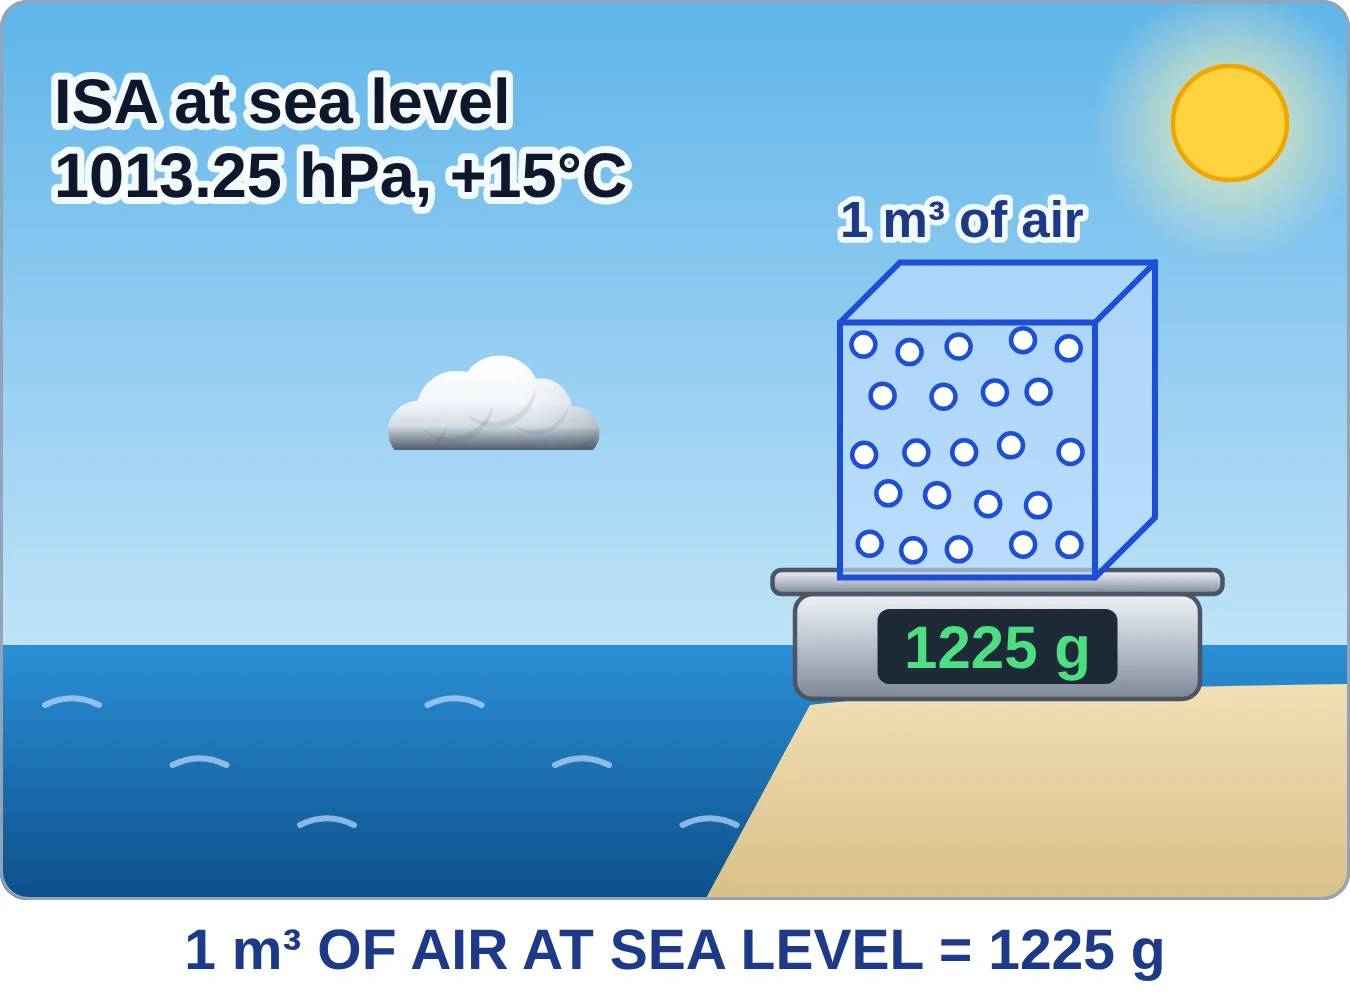
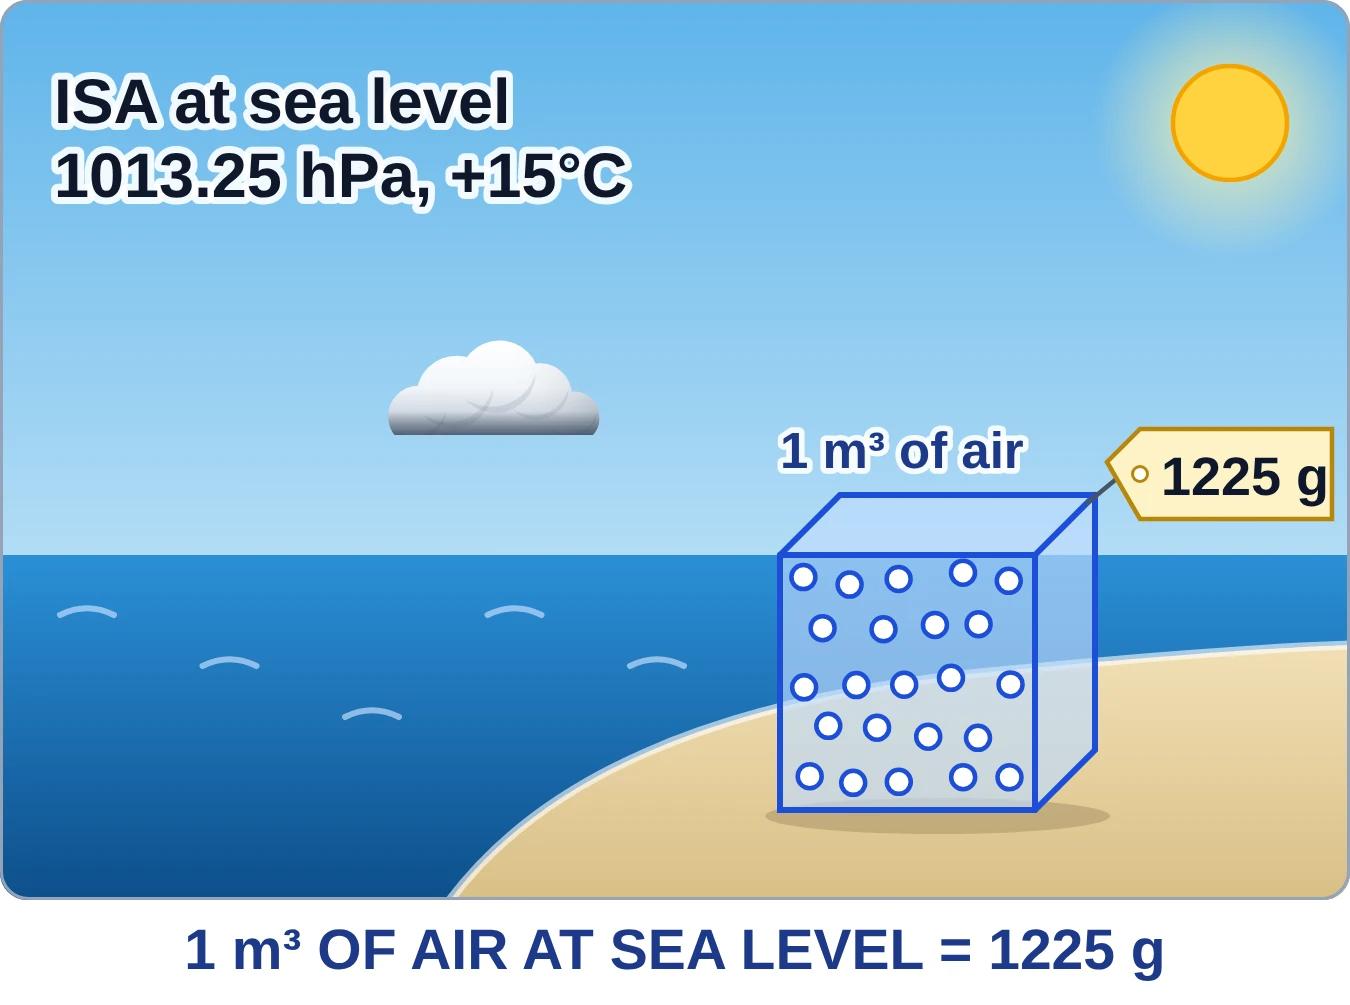
Fix the ISA sea-level picture: cube on the sand, mass tag instead of a scale
The scale was half over the water, and a scale in air would read about
zero because of buoyancy; the 1225 g is the air's mass, now shown on a tag.

Claude-Session: https://claude.ai/code/session_01Rrv2AtHbYfafAcVfvxwyxc

diff --git a/scripts/trial_visuals/met_phone.py b/scripts/trial_visuals/met_phone.py
@@ -185,26 +185,30 @@ ISA_H = 600
 
 def isa_draw(w, h):
     rnd = random.Random(9)
-    s = sun(820, 82, 38) + cumulus(330, 300, 150, seed=2)
-    s += f'<rect x="0" y="430" width="{w}" height="{h - 430}" fill="url(#sea)"/>'
-    s += "".join(path(f"M {30 + k * 85},{470 + (k % 3) * 40} q 18,-9 36,0", "none", "#bfdbfe", 4, ' stroke-opacity="0.7"')
-                 for k in range(6))
-    s += path("M 470,600 L 540,470 C 600,462 760,458 900,456 L 900,600 Z", "url(#sand)")
-    # one cubic metre of air on a kitchen scale on the beach
-    x, y, a, d = 560, 175, 170, 40
-    s += f'<rect x="530" y="396" width="270" height="70" rx="12" fill="url(#metal)" stroke="#4b5563" stroke-width="3"/>'
-    s += f'<rect x="585" y="406" width="160" height="50" rx="8" fill="#1f2937"/>'
-    s += (f'<text x="665" y="445" text-anchor="middle" font-family="Arial,Helvetica,sans-serif" font-size="40" '
-          f'font-weight="800" fill="#4ade80" data-label="1225">1225 g</text>')
-    s += f'<rect x="515" y="380" width="300" height="16" rx="6" fill="url(#metal)" stroke="#4b5563" stroke-width="3"/>'
+    s = sun(820, 82, 38) + cumulus(330, 290, 150, seed=2)
+    # sea out to the horizon, beach across the foreground
+    s += f'<rect x="0" y="370" width="{w}" height="{h - 370}" fill="url(#sea)"/>'
+    s += "".join(path(f"M {40 + k * 95},{410 + (k % 3) * 34} q 18,-9 36,0", "none", "#bfdbfe", 4, ' stroke-opacity="0.7"')
+                 for k in range(5))
+    s += path("M 300,600 C 360,520 470,470 640,450 C 740,440 840,432 900,430 L 900,600 Z", "url(#sand)")
+    s += path("M 300,600 C 360,520 470,470 640,450 C 740,440 840,432 900,430", "none", "#ffffff", 6, ' stroke-opacity="0.6"')
+    # one cubic metre of air standing on the sand, with its mass on a tag
+    x, y, a, d = 520, 330, 170, 40          # front face bottom at y + a + d = 540, on the sand
+    s += f'<ellipse cx="{x + (a + d) / 2}" cy="{y + a + d + 4}" rx="{(a + d) / 2 + 10}" ry="12" fill="#8a7550" opacity="0.35"/>'
     s += (f'<path d="M {x},{y + d} L {x + d},{y} L {x + a + d},{y} L {x + a + d},{y + a} L {x + a},{y + a + d} '
           f'L {x},{y + a + d} Z" fill="#bfdbfe" fill-opacity="0.65" stroke="#1d4ed8" stroke-width="4"/>')
     s += path(f"M {x},{y + d} L {x + a},{y + d} L {x + a + d},{y} M {x + a},{y + d} L {x + a},{y + a + d}", "none",
               "#1d4ed8", 4)
     for px, py in grid_points(rnd, (x + 16, y + d + 16, x + a - 8, y + a + d - 8), 34, 5):
         s += molecule(px, py)
+    tx, ty = 738, 300                       # mass tag tied to the top corner of the cube
+    s += f'<line x1="{x + a + d - 6}" y1="{y + 6}" x2="{tx + 20}" y2="{ty + 8}" stroke="#475569" stroke-width="3"/>'
+    s += (f'<path d="M {tx},{ty + 8} L {tx + 22},{ty - 14} L {tx + 150},{ty - 14} L {tx + 150},{ty + 46} L {tx + 22},{ty + 46} Z" '
+          f'fill="#fef3c7" stroke="#b7860b" stroke-width="3"/>')
+    s += circle(tx + 22, ty + 16, 5, "#ffffff", "#b7860b", 2)
+    s += label(tx + 92, ty + 30, "1225 g", 36, INK, "middle", halo=None)
     s += label(36, 82, "ISA at sea level\n1013.25 hPa, +15°C", TXT_L, INK)
-    s += label(560, 158, "1 m³ of air", TXT_M, "#1e3a8a")
+    s += label(x, y - 18, "1 m³ of air", TXT_M, "#1e3a8a")
     return s
 
 
